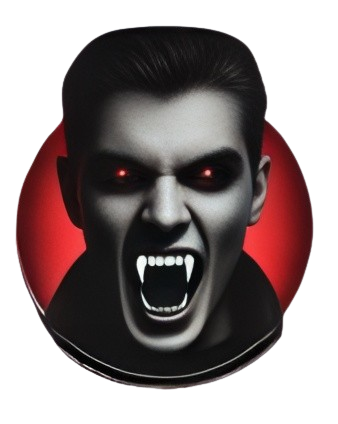
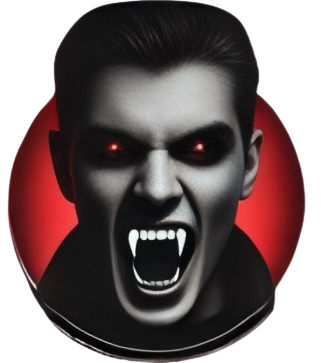
1-ajuste mobile

diff --git a/front-end/src/components/header/responsiveHeader.css b/front-end/src/components/header/responsiveHeader.css
@@ -1,6 +1,13 @@
+@media screen and (max-width:667px){
+
+    #log img{width: 140%;}
+
+}
 @media screen and (max-width:1024px){
     
     header{flex-direction: row;}
+
+    header nav{background: none !important;}
 
     /* Primeira nav */
     header nav:first-child{width: 20% !important;}

diff --git a/front-end/src/components/Main/responsiveLata.css b/front-end/src/components/Main/responsiveLata.css
@@ -8,7 +8,7 @@
 
 
 }
-@media screen and (max-width:1024px){
+@media screen and (max-width:1024px) {
 
     main{
 
@@ -72,6 +72,8 @@
     .seguraBorda p{
 
         width: 75%;
+        text-align: center;
+        margin-top: 28px;
 
     }
 

diff --git a/front-end/src/components/header/styleHeader.css b/front-end/src/components/header/styleHeader.css
@@ -52,7 +52,7 @@ header nav:first-child {
 #log {
     align-items: center;
     display: flex;
-    padding: 10px 5%;
+    padding: 10px 3%;
     background: #2D2D2D;
     border-radius: 15px 0px 0px 15px;
     
